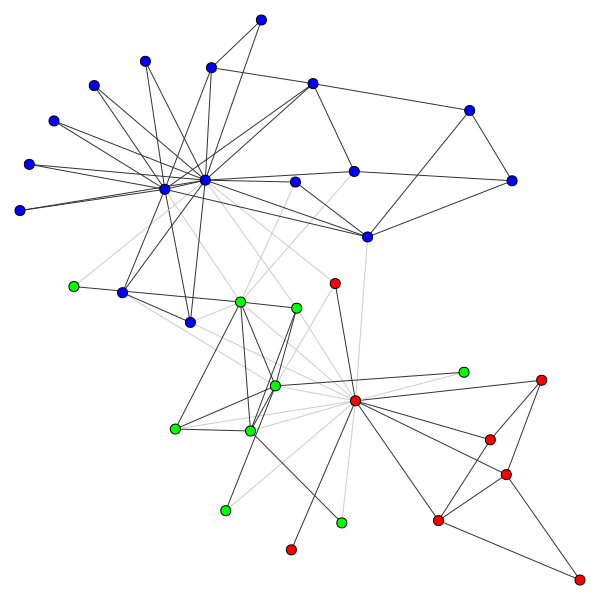
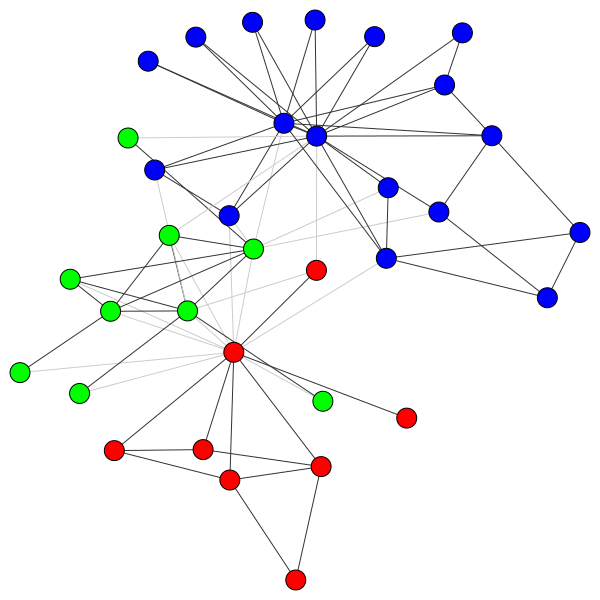
Set vertex size to 20

diff --git a/KarateClub/KarateClub.py b/KarateClub/KarateClub.py
@@ -4,7 +4,7 @@ import igraph
 karateGraph = igraph.read('karate.GraphML', format = 'graphml')
 
 visual_style = {}
-visual_style["vertex_size"] = 10
+visual_style["vertex_size"] = 20
 
 plot(karateGraph, "1original.png", **visual_style)
 plot(karateGraph.community_edge_betweenness().as_clustering(), "2girvanNewman.png", **visual_style)
